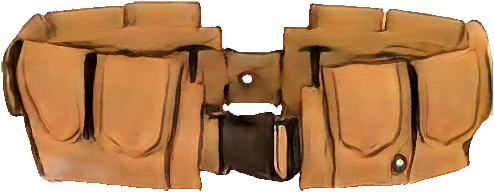
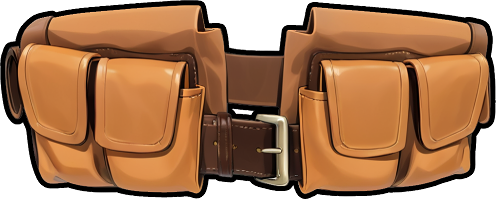
update big and luxurious belt graphics

diff --git a/SonOfRobin.Core/Game/Animation/AnimData.cs b/SonOfRobin.Core/Game/Animation/AnimData.cs
@@ -1932,13 +1932,13 @@ namespace SonOfRobin
 
                 case PkgName.BeltBig:
                     {
-                        animPkg = MakePackageForSingleImage(pkgName: pkgName, width: 494, height: 192, scale: 0.06f, layer: 0, animSize: 0, altasName: "belt_big", hasOnePixelMargin: true);
+                        animPkg = MakePackageForSingleImage(pkgName: pkgName, width: 496, height: 199, scale: 0.06f, layer: 0, animSize: 0, altasName: "belt_big", hasOnePixelMargin: true);
                         break;
                     };
 
                 case PkgName.BeltLuxurious:
                     {
-                        animPkg = MakePackageForSingleImage(pkgName: pkgName, width: 494, height: 192, scale: 0.06f, layer: 0, animSize: 0, altasName: "belt_luxurious", hasOnePixelMargin: true);
+                        animPkg = MakePackageForSingleImage(pkgName: pkgName, width: 499, height: 199, scale: 0.06f, layer: 0, animSize: 0, altasName: "belt_luxurious", hasOnePixelMargin: true);
                         break;
                     };
 
